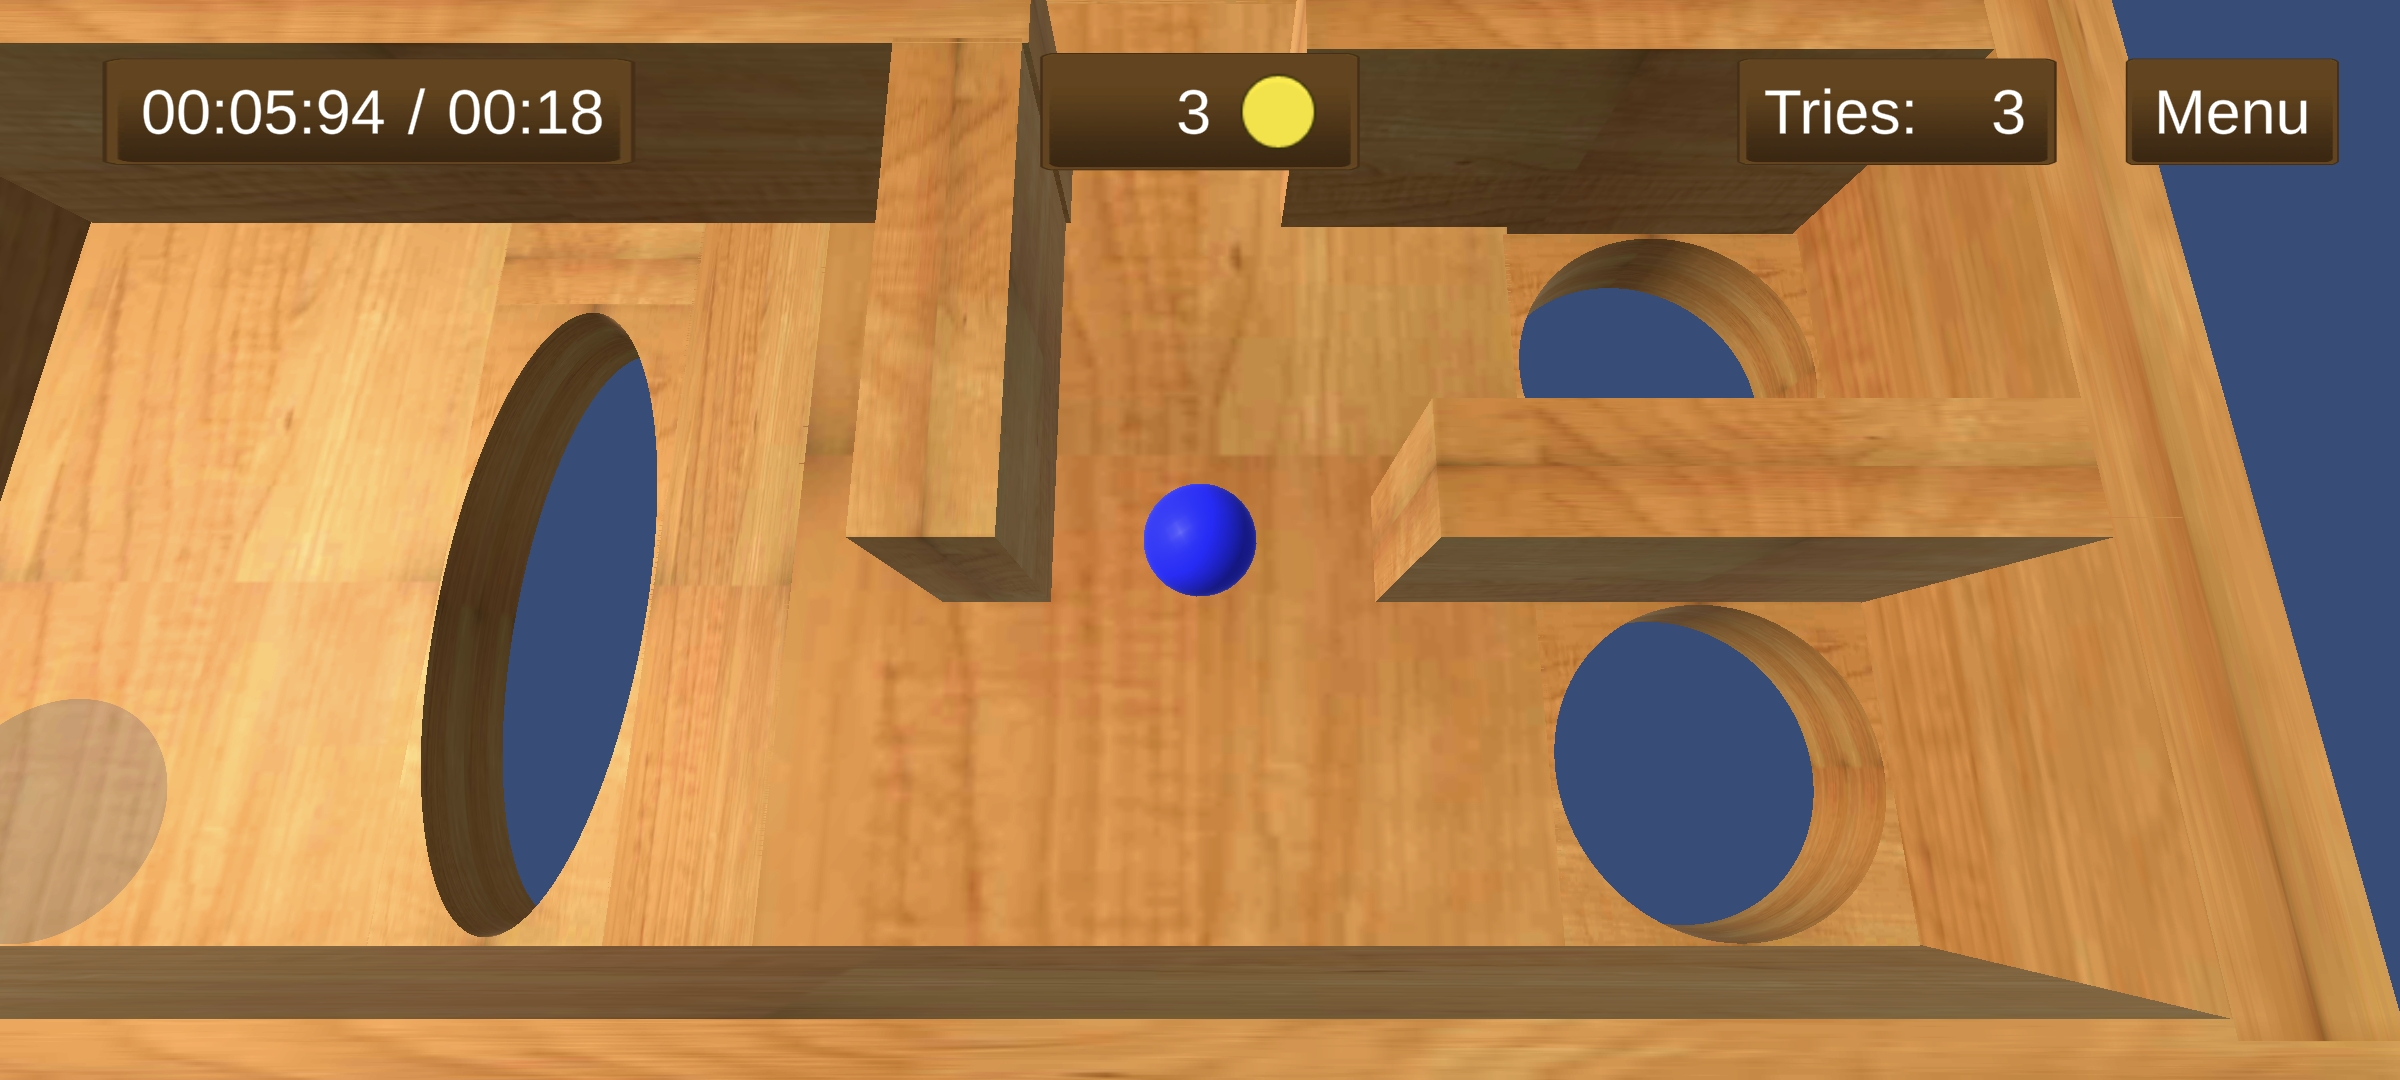
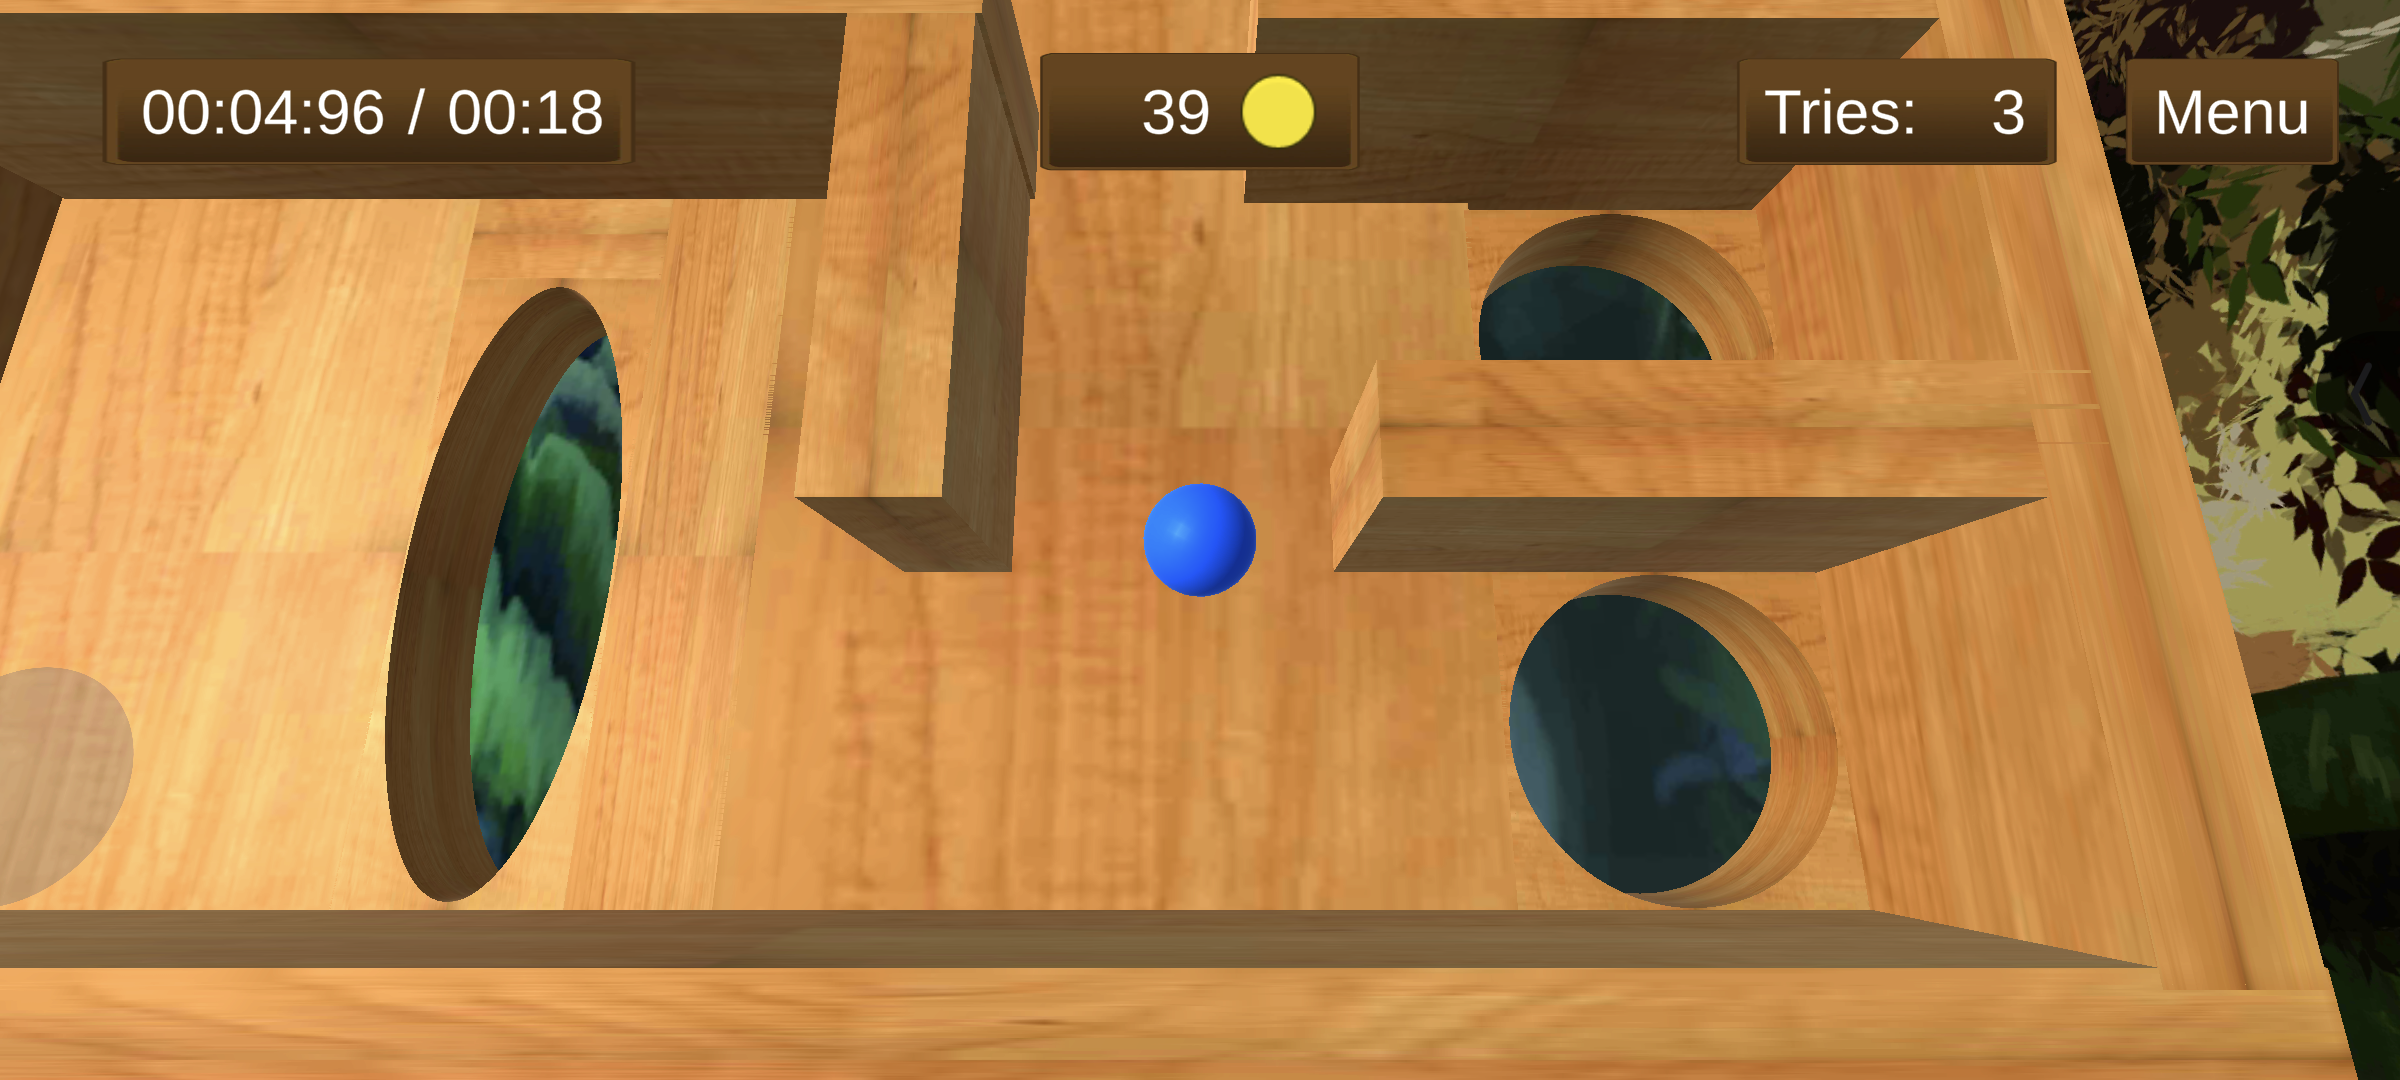
Add Releases and refreshed images

diff --git a/projects.html b/projects.html
@@ -79,6 +79,7 @@
 													<img src="files/images/BallChallengesRemake/image5.png" alt="Ball Challenges Remake Image 5" data-index="5"/>
 													<img src="files/images/BallChallengesRemake/image6.png" alt="Ball Challenges Remake Image 6" data-index="6"/>
 													<img src="files/images/BallChallengesRemake/image7.png" alt="Ball Challenges Remake Image 7" data-index="7"/>
+													<img src="files/images/BallChallengesRemake/image8.png" alt="Ball Challenges Remake Image 8" data-index="8"/>
 												</div>
 												<p>
 													I  developed a <b>remake</b>  of Ball Challenge with a small independent team using <b>Unity</b>, where I am the lead developer, because
@@ -89,6 +90,51 @@
 													It is available on <a href="https://play.google.com/store/apps/details?id=com.Hungry4Games.BallChallenges" target="_blank"  class="link-primary">
 														<b>Google Play Store</b></a> and the <a href="https://www.youtube.com/watch?v=8oIa1hH29v8" target="_blank"  class="link-primary">
 														<b>trailer</b></a>.
+												</p>
+												<p>
+													<b>Releases:</b>
+													<ul>
+														<li>
+															<b>1.4.2.0 - 2022-08-06</b>
+															<br/>
+															Add new free skin (100 stars) - Fire Torch Ball <br/>
+															Add zoom in the menu <br/>
+															Updated store <br/>
+															Updated some smaller UI elements <br/>
+														</li>
+														<li>
+															<b>1.4.0.6 - 2022-07-01</b>
+															<br/>
+															Add achievements <br/>
+															Add zoom in the level’s preview <br/>
+															Add 4 new maps <br/>
+															Add handcrafted backgrounds to every levels <br/>
+															Add a new optional setting for the main menu’s hint window <br/>
+														</li>
+														<li>
+															<b>1.3.0.3 - 2022-06-03</b>
+															<br/>
+															Add new cyber theme <br/>
+															Add new skin - Cyber Ball <br/>
+															Add 9 new maps <br/>
+															Add new mechanisms
+														</li>
+														<li>
+															<b>1.2.0.0 - 2022-05-02</b>
+															<br/>
+															Updated UI Animations <br/>
+															Add new skin – Nuclear Ball <br/>
+															Add 2 new levels
+														</li>
+														<li>
+															<b>1.1.1.1 - 2022-04-01</b>
+															<br/>
+															Add new skins 
+														</li>
+														<li>
+															<b>1.0.1.0 - 2022-03-20</b>
+														</li>
+													</ul>
 												</p>
 											</div>
 										</div>
@@ -164,6 +210,29 @@
 												<p>
 													Unfortunatelly, I had to stop this project (but it is still available), because of Google's shutdown of the Daydream platform.
 													Moreover, Google doesn't support Daydream on Android 11, so it is not 100% that the game will work. (It works on Pixel 2.)
+												</p>
+												<p>
+													<b>Releases:</b>
+													<ul>
+														<li>
+															<b>1.3.0 - 2019-11-29</b>
+															<br/>
+															Add Cardboard VR support to prisoner.
+														</li>
+														<li>
+															<b>1.2.0 - 2019-10-07</b>
+															<br/>
+															Add Meeting Room. It is a room, where the VR and AR player can meet with each other.
+														</li>
+														<li>
+															<b>1.1.1 - 2019-07-14</b>
+															<br/>
+															The hacker is playable without AR
+														</li>
+														<li>
+															<b>1.0.0 - 2019-06-19</b>
+														</li>
+													</ul>
 												</p>
 											</div>
 										</div>
